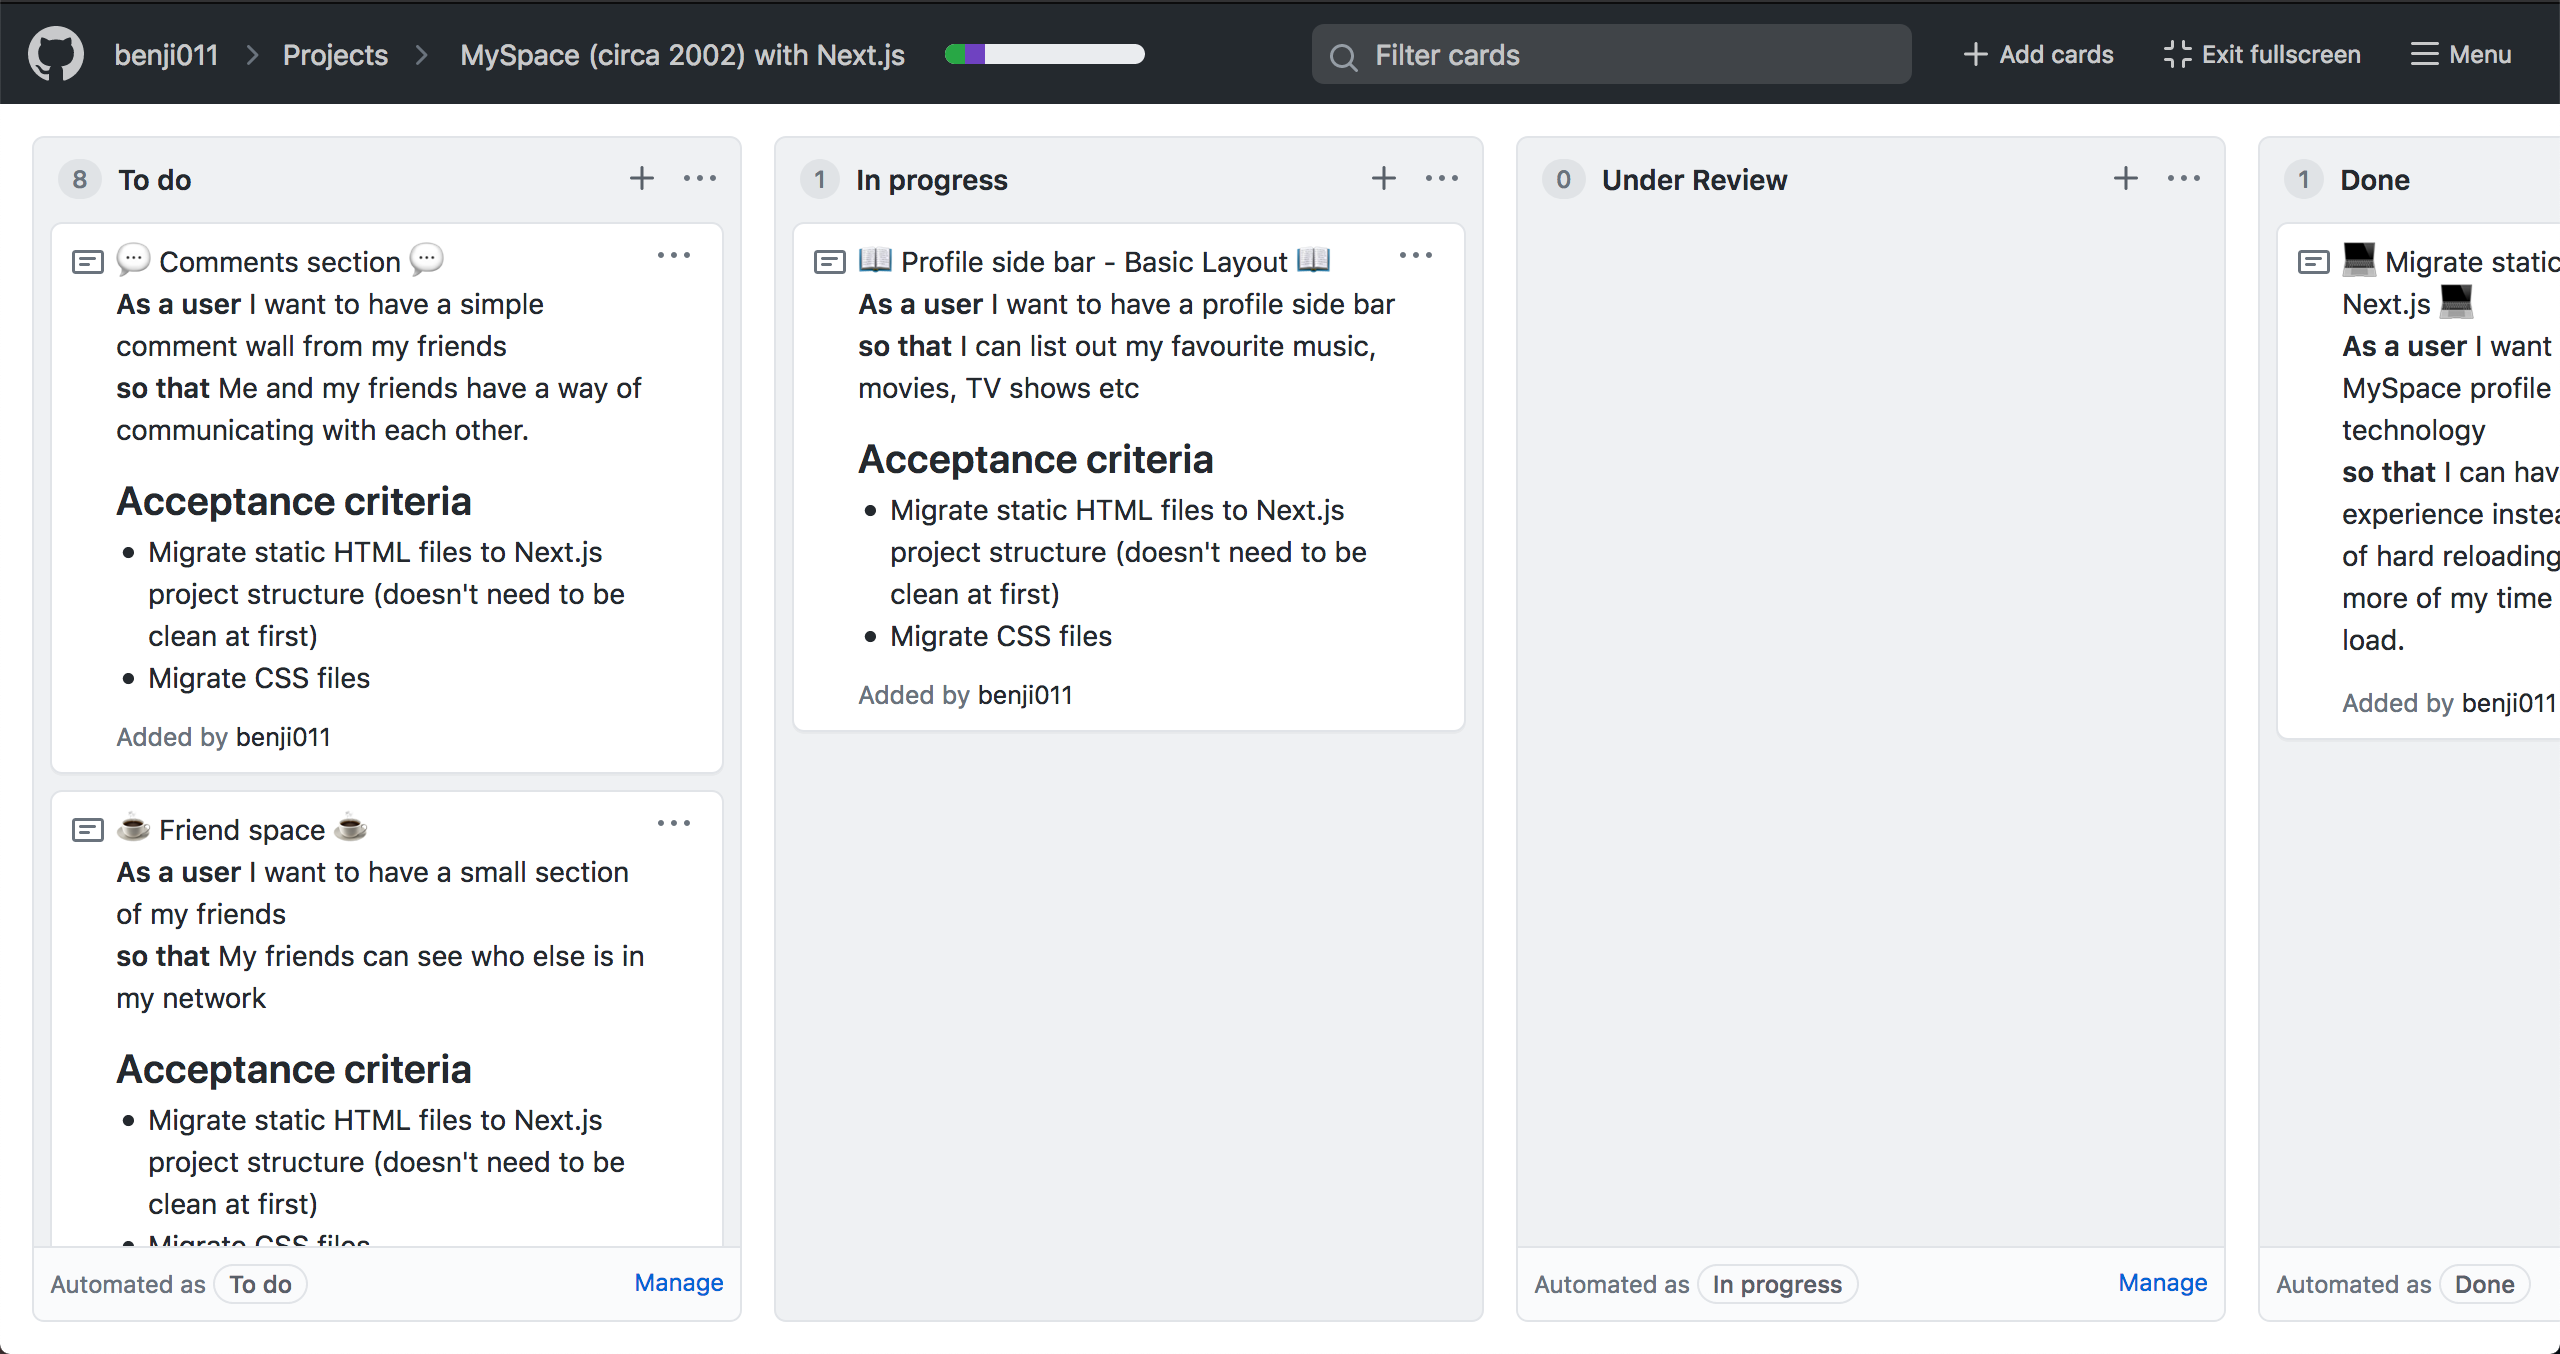
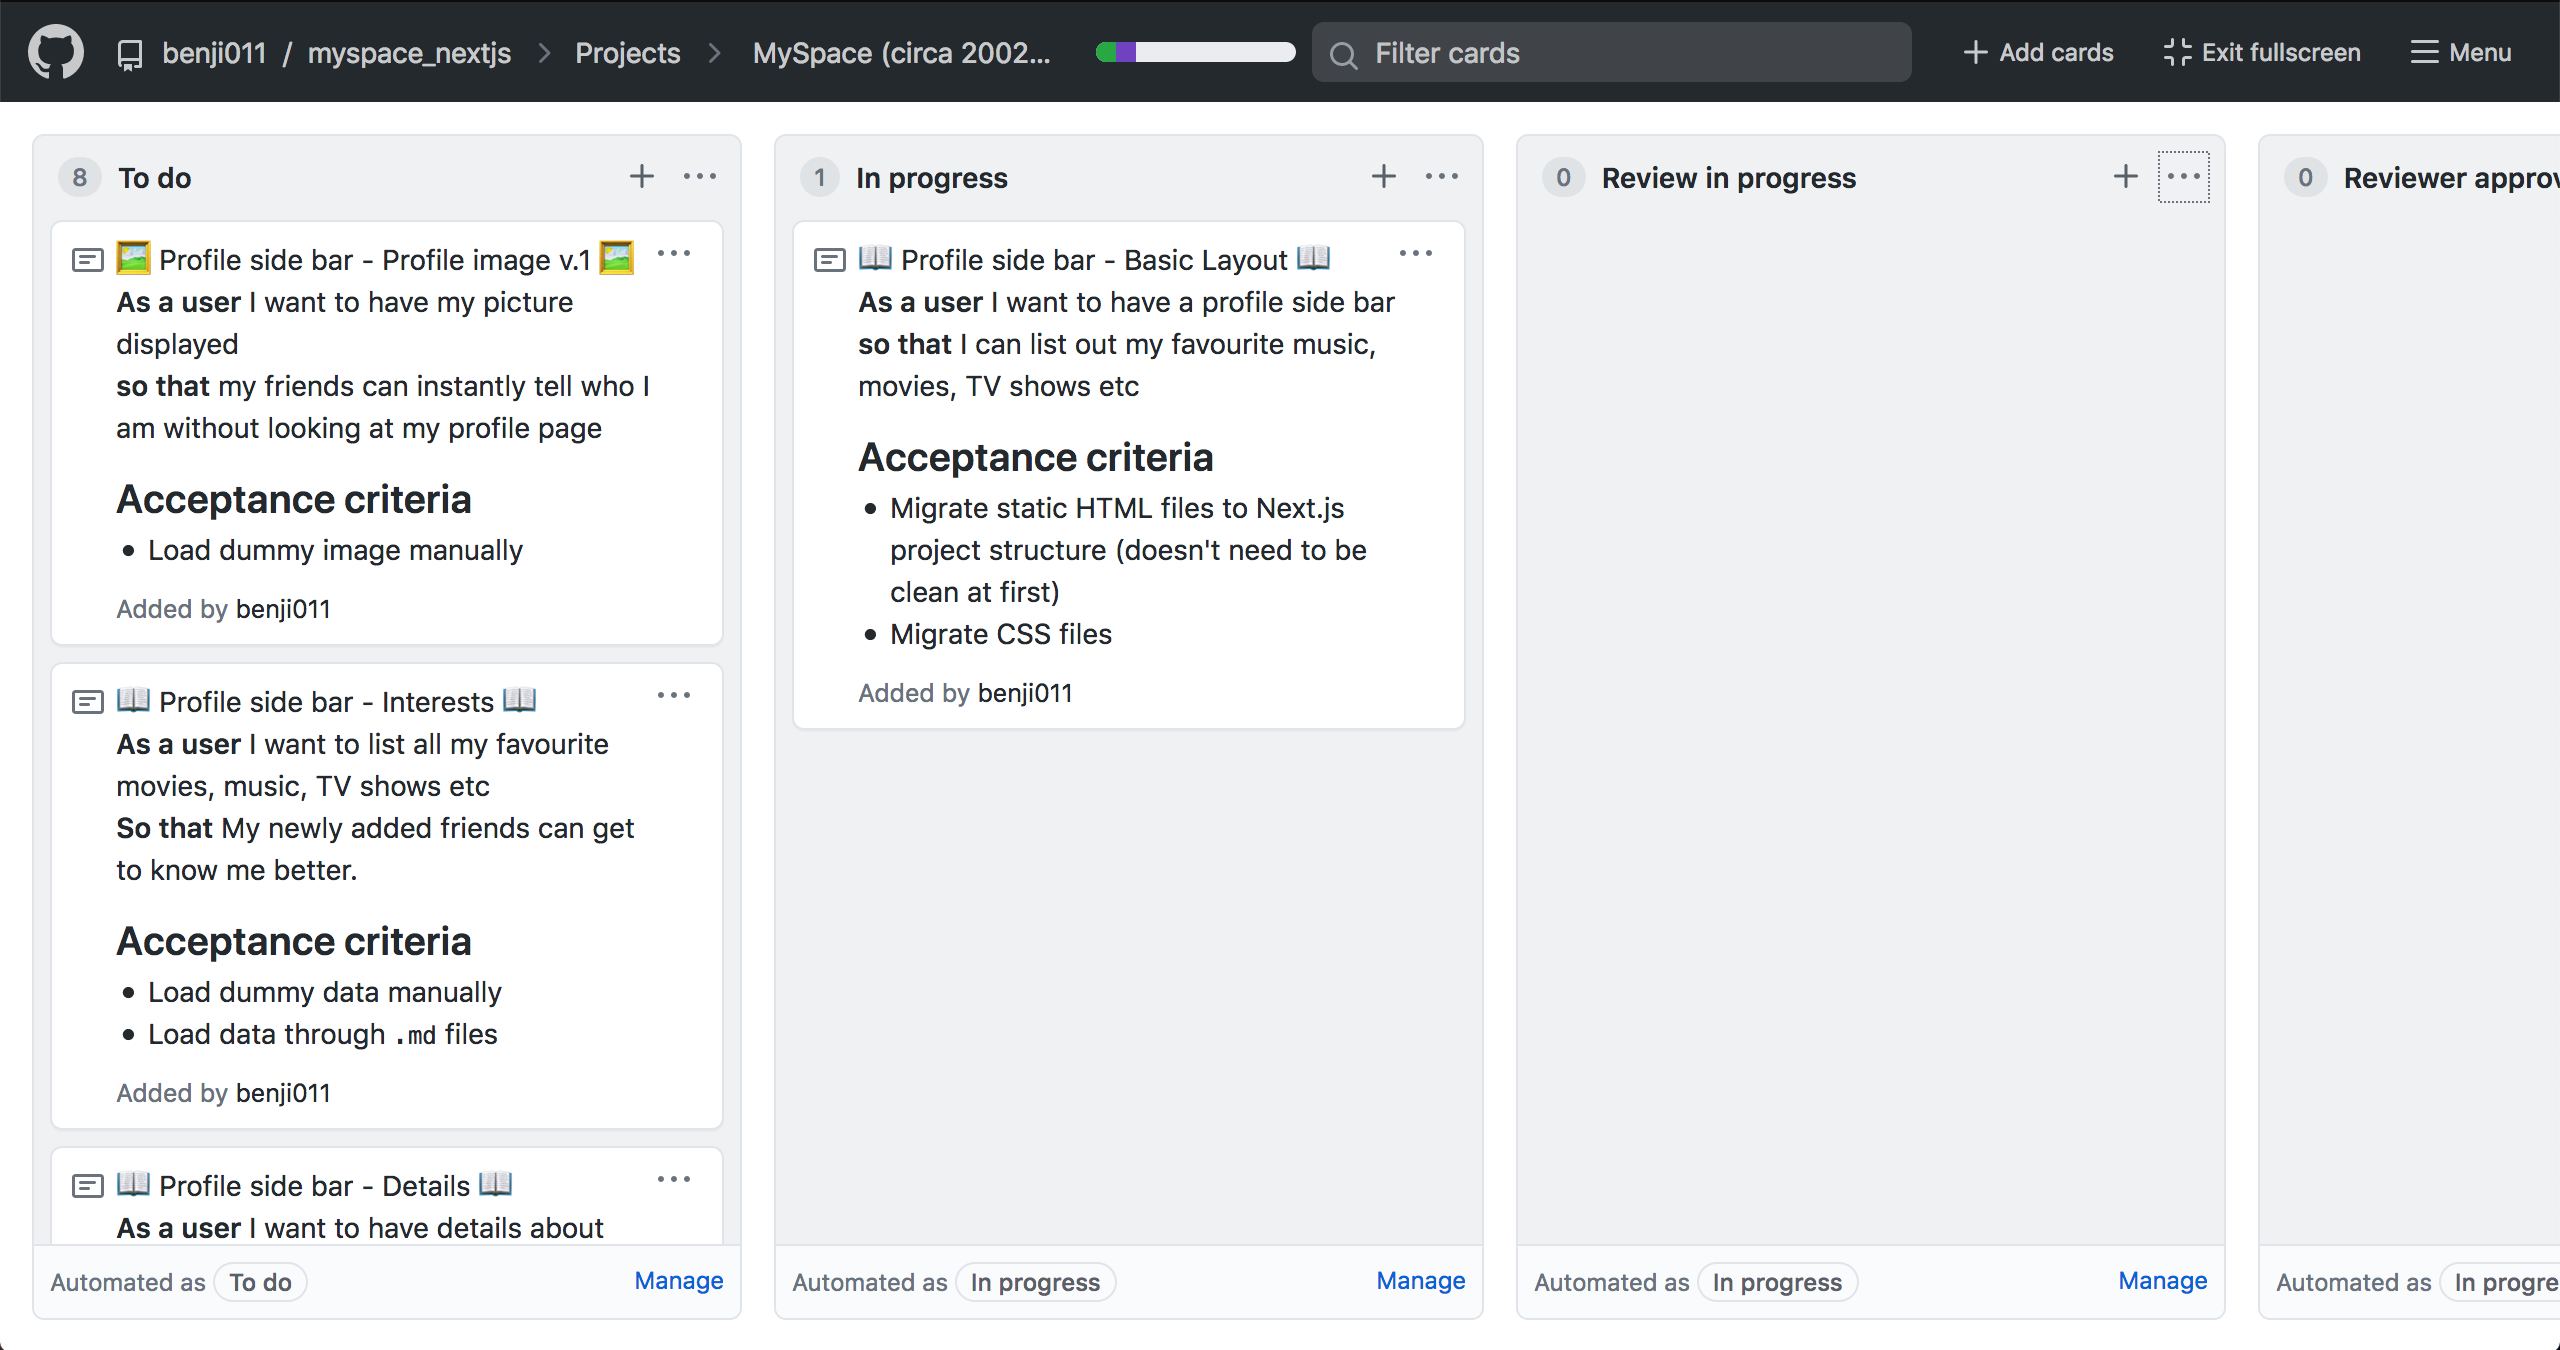
Updated readme & screenshots

diff --git a/README.md b/README.md
@@ -7,9 +7,13 @@ An unofficial MySpace clone of the original from 2002 (when social media platfor
 The original styles and layout was originally forked from [wittenbrocks tom-myspace-page](https://wittenbrock.github.io/toms-myspace-page). Please send him some love.
 
 ## Current progress
-I created a [kanban board](https://github.com/users/benji011/projects/1) in order to manage this project. If you're interested in getting involved, please go ahead and click here to view the todos and get started. Or, you are welcome to create an issue/task and get involved straight away :)
+I created a [kanban board](https://github.com/benji011/myspace_nextjs/projects/1) in order to manage this project. If you're interested in getting involved, please go ahead and click here to view the todos and get started. Or, you are welcome to create an issue/task and get involved straight away :)
 
 <img src="public/images/kanban.png"/>
+
+## Current version
+You can view the current release that's in progress, marked as todo or past releases in this [kanban board](https://github.com/users/benji011/projects/1).
+<img src="public/images/kanban_release.png"/>
 
 ## Contributing
 Pull requests are welcome. For major changes, please open an issue first to discuss what you would like to change.
